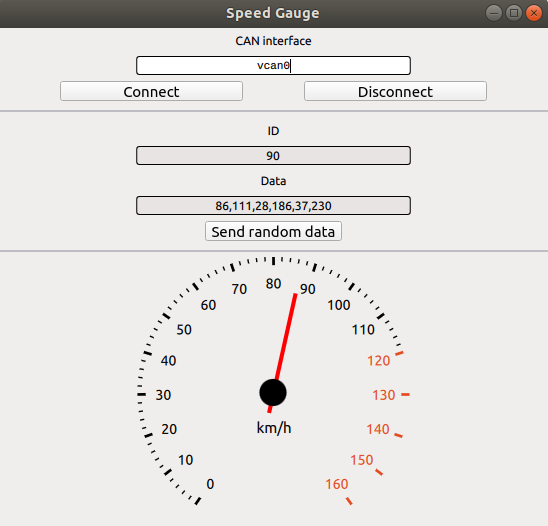
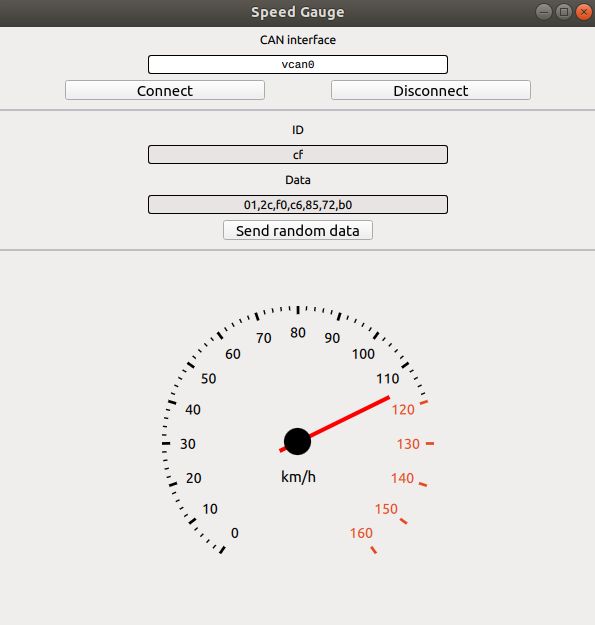
Update README. Add gitignore. Rewrite sendFrame function

diff --git a/qml/main.qml b/qml/main.qml
@@ -368,16 +368,24 @@ ApplicationWindow {
             enabled: false
             anchors.verticalCenter: parent.verticalCenter
             onClicked:  {
+                // Function to create random hex array
                 function randomArray(length, max) {
                     return Array.apply(null, new Array(length)).map(function() {
-                        return Math.round(Math.random() * max);
+                        var randNum = Math.round(Math.random() * max)
+                        // randNum to hex string
+                        return ("00" + randNum.toString(16)).substr(-2)
                     });
                 }
+
+                // Random frame id
                 var frameId = Math.floor(Math.random() * 255)
+                // Random payload length [1,8]
                 var arrayLen =  Math.floor(Math.random() * (9 - 1)) + 1
                 var myArray = randomArray(arrayLen, 255)
-                CANCommunication.sendFrame(frameId, myArray)
-                frame_id_random.text = frameId.toString()
+                // Send frame to c++
+                CANCommunication.sendFrame(frameId, myArray.join(''))
+                // Update GUI with hex values sent
+                frame_id_random.text = ("00" + frameId.toString(16)).substr(-2)
                 data_random.text = myArray.toString()
             }
         }

diff --git a/cancommunication.cpp b/cancommunication.cpp
@@ -8,6 +8,14 @@
 CANCommunication::CANCommunication(QObject *parent) : QObject(parent) {}
 
 /*
+ *
+ */
+CANCommunication::~CANCommunication()
+{
+    disconnectDevice();
+}
+
+/*
  * Communicate CAN bus error to user.
  *
  * @param error     Error type.
@@ -67,9 +75,12 @@ void CANCommunication::disconnectDevice()
     if (!m_canDevice)
         return;
 
-    m_canDevice->disconnectDevice();
-    delete m_canDevice;
-    m_canDevice = nullptr;
+    /* Check if there is an active connection */
+    if (m_canDevice->state() == QCanBusDevice::ConnectedState) {
+        m_canDevice->disconnectDevice();
+        delete m_canDevice;
+        m_canDevice = nullptr;
+    }
 }
 
 /*
@@ -106,7 +117,7 @@ void CANCommunication::checkMessages()
             emit notifyErr(m_canDevice->interpretErrorFrame(frame));
 
         if (isFrameValidSpeed(frame))
-            emit currSpeed((unsigned int)frame.payload()[0]);
+            emit currSpeed(static_cast<unsigned int>(frame.payload()[0]));
     }
 }
 
@@ -116,18 +127,15 @@ void CANCommunication::checkMessages()
  * @param frameId   Frame id of the message to be sent
  * @param payload   Data to be sent
  */
-void CANCommunication::sendFrame(const quint32 frameId, const QVariantList payload)
+void CANCommunication::sendFrame(const quint32 frameId, const QString payload)
 {
     if (!m_canDevice) {
         emit notifyErr("Cannot send frames, try connecting with the CAN bus first.");
         return;
     }
 
-    /* Convert QVariantList to QByteArray */
-    QByteArray framePayload;
-    foreach (QVariant item, payload) {
-        framePayload.append(item.toInt());
-    }
+    /* Create payload */
+    const QByteArray framePayload = QByteArray::fromHex(payload.toLatin1());
 
     /* Create frame to be sent */
     QCanBusFrame frame = QCanBusFrame(frameId, framePayload);

diff --git a/cancommunication.h b/cancommunication.h
@@ -3,18 +3,19 @@
 
 #include <QObject>
 #include <QCanBusDevice>
-#include <QVariantList>
 
 class CANCommunication : public QObject
 {
     Q_OBJECT
 
 public:
-    explicit CANCommunication(QObject *parent = 0);
+    explicit CANCommunication(QObject *parent = nullptr);
+    ~CANCommunication();
+
     // Invokable so it can be called from QML
     Q_INVOKABLE void connectDevice(const QString &interface);
     Q_INVOKABLE void disconnectDevice();
-    Q_INVOKABLE void sendFrame(const quint32 frameId, const QVariantList payload);
+    Q_INVOKABLE void sendFrame(const quint32 frameId, const QString payload);
 
 private Q_SLOTS:
     void checkMessages();

diff --git a/README.md b/README.md
@@ -22,6 +22,7 @@ As described [here](https://elinux.org/Bringing_CAN_interface_up#Virtual_Interfa
  $ sudo ip link set up vcan0
 ```
 
+Install [can-utils](https://elinux.org/Can-utils) following the instructions on the link.
 Run the script [generate_speed_values.sh](generate_speed_values.sh) to generate speed values. For this application, any value with frame id 0x123 is considered as a speed value.
 
 ---
@@ -67,6 +68,12 @@ Once compiled, just run the **can** executable.
 ```
 $ ./can
 ```
+
+To verify that frames are written into the CAN bus, candump from can-utils can be used,
+```
+$ candump vcan0
+```
+
 ---
 **NOTE**
 
